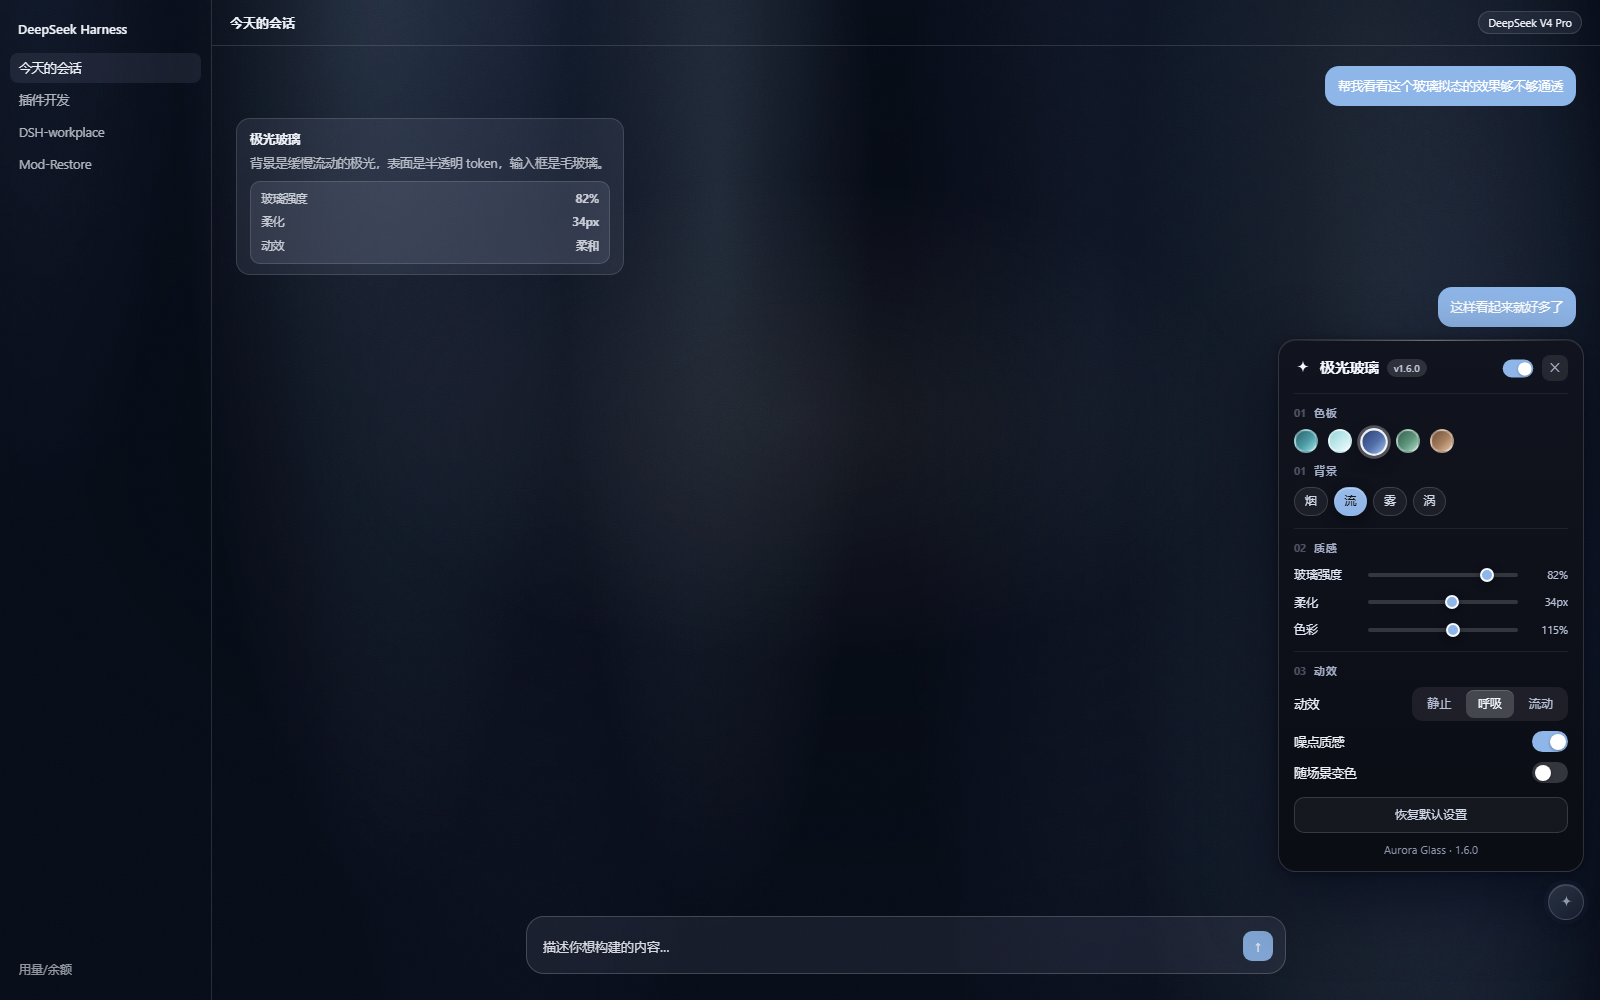
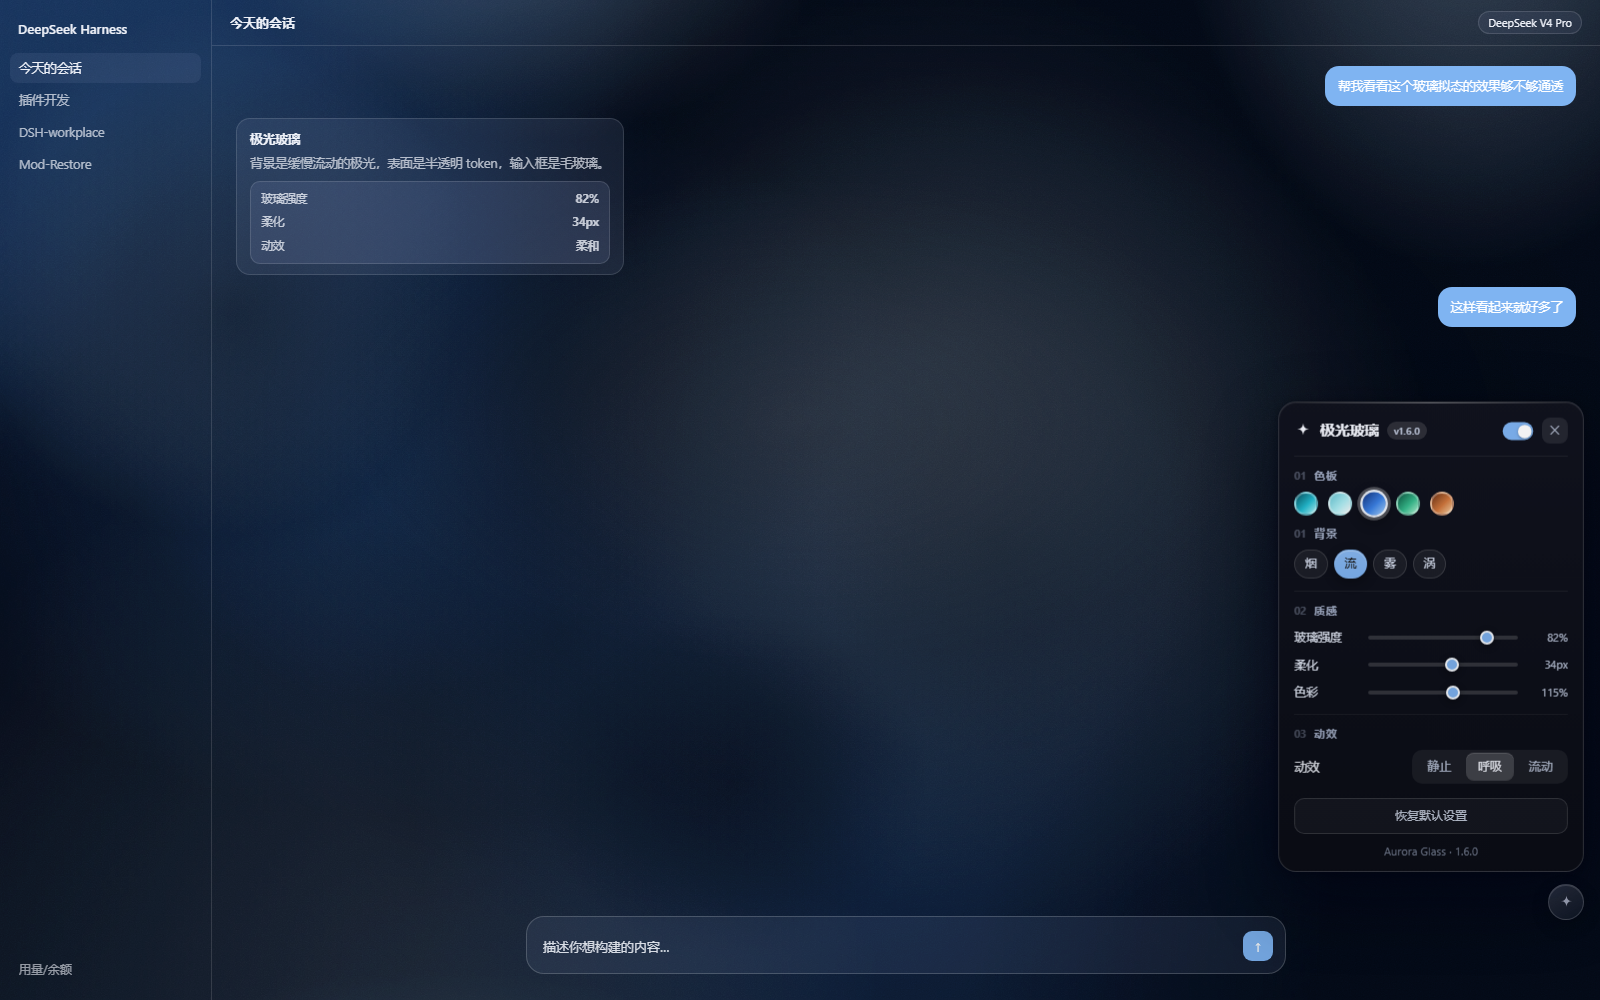
feat: v3.1.0 - fluid cells with dark channels, saturated palettes, drop grain and tint switches

diff --git a/client.js b/client.js
@@ -42,43 +42,43 @@ window.__ModuleLoader__.load({
      * palettes & presets
      * ------------------------------------------------------------------ */
 
-    // Five single-hue palettes, after the reference stills: a deep ground,
-    // a pale ground, and three tones of the same hue in between.
+    // Five single-hue palettes. The tones are deliberately saturated — a
+    // desaturated ramp is what made the first attempt look dirty.
     const PALETTES = [
       {
         id: 'deep',
         label: '深青',
-        base: [[236, 246, 247], [7, 22, 25]],
-        rgb: [[42, 96, 104], [78, 156, 166], [150, 226, 232]],
-        brand: { light: '#1f6d76', dark: '#7fd6de' },
+        base: [[232, 250, 251], [3, 20, 24]],
+        rgb: [[8, 86, 100], [36, 190, 210], [186, 250, 253]],
+        brand: { light: '#0f7f8e', dark: '#4fd8e6' },
       },
       {
         id: 'pale',
         label: '浅青',
-        base: [[233, 247, 248], [10, 28, 32]],
-        rgb: [[150, 214, 219], [198, 236, 239], [244, 252, 253]],
-        brand: { light: '#3fa9b4', dark: '#a8e6ec' },
+        base: [[236, 252, 253], [8, 26, 30]],
+        rgb: [[104, 202, 214], [176, 240, 246], [252, 255, 255]],
+        brand: { light: '#2ba7b6', dark: '#9de9f2' },
       },
       {
         id: 'indigo',
         label: '墨蓝',
-        base: [[236, 241, 248], [10, 16, 30]],
-        rgb: [[44, 62, 110], [82, 110, 170], [160, 196, 236]],
-        brand: { light: '#2b4a86', dark: '#8fb6e8' },
+        base: [[234, 242, 252], [6, 12, 28]],
+        rgb: [[18, 52, 128], [62, 132, 232], [176, 216, 255]],
+        brand: { light: '#1f4fa8', dark: '#7fb4f2' },
       },
       {
         id: 'sage',
         label: '雾绿',
-        base: [[240, 245, 240], [14, 24, 20]],
-        rgb: [[52, 96, 78], [96, 150, 126], [176, 220, 200]],
-        brand: { light: '#35664f', dark: '#9ed3b8' },
+        base: [[238, 250, 242], [8, 24, 18]],
+        rgb: [[14, 92, 68], [56, 190, 142], [182, 248, 214]],
+        brand: { light: '#12795a', dark: '#6fe3b2' },
       },
       {
         id: 'clay',
         label: '砂褐',
-        base: [[246, 242, 235], [24, 18, 15]],
-        rgb: [[112, 78, 56], [168, 128, 96], [226, 198, 170]],
-        brand: { light: '#7a5540', dark: '#dcb894' },
+        base: [[252, 246, 236], [26, 14, 8]],
+        rgb: [[112, 52, 22], [212, 122, 62], [250, 214, 168]],
+        brand: { light: '#9c4f22', dark: '#e8a468' },
       },
     ];
 
@@ -1184,8 +1184,6 @@ body:not([data-ds-dark-theme]) .ag-swatch.on{ border-color:rgba(60,48,36,.7); bo
             el('span', { text: t('ctl.motion') }),
             el('div', { class: 'ag-seg', style: 'width:156px' }, segButtons),
           ]),
-          sw('grain', t('sw.grain')),
-          sw('tint', t('sw.tint')),
         ]),
         el('button', {
           class: 'ag-reset',
@@ -1464,12 +1462,14 @@ body:not([data-ds-dark-theme]) .ag-swatch.on{ border-color:rgba(60,48,36,.7); bo
     }
 
     /* ==================================================================== *
-     * Fluid backdrops, after the reference stills: one hue, deep to pale,
-     * made of nothing but large soft gradients. No lines, no shapes, no
-     * pointer light — the motion is slow enough to be felt, not watched.
+     * Fluid backdrops.
      *
-     * Cost: every blob is a radial gradient fill; there is no ctx.filter in
-     * this file at all, which is what keeps 20+ of them affordable at 30fps.
+     * Built from a few dozen soft gradients that drift on separate Lissajous
+     * paths — but unlike a plain blob pile, half of them are DARK. The dark
+     * ones carve channels through the bright ones, and that interference is
+     * what reads as a fluid rather than a blur.
+     *
+     * Cost: N gradient fills per frame, no ctx.filter anywhere.
      * ==================================================================== */
 
     const moodOf = () => paletteOf(state.palette);
@@ -1482,11 +1482,11 @@ body:not([data-ds-dark-theme]) .ag-swatch.on{ border-color:rgba(60,48,36,.7); bo
       return m;
     }
 
-    // a soft blob: colour at the core, nothing at the rim
     function blob(ctx, x, y, r, c, a, squash) {
+      if (r <= 0.5) return;
       const g = ctx.createRadialGradient(x, y, 0, x, y, r);
       g.addColorStop(0, 'rgba(' + c[0] + ',' + c[1] + ',' + c[2] + ',' + a + ')');
-      g.addColorStop(0.42, 'rgba(' + c[0] + ',' + c[1] + ',' + c[2] + ',' + (a * 0.55) + ')');
+      g.addColorStop(0.45, 'rgba(' + c[0] + ',' + c[1] + ',' + c[2] + ',' + (a * 0.62) + ')');
       g.addColorStop(1, 'rgba(' + c[0] + ',' + c[1] + ',' + c[2] + ',0)');
       ctx.save();
       if (squash && squash !== 1) {
@@ -1501,106 +1501,88 @@ body:not([data-ds-dark-theme]) .ag-swatch.on{ border-color:rgba(60,48,36,.7); bo
       ctx.restore();
     }
 
-    /* ---- smoke: the reference look, twenty slow billows -------------- */
-
-    const SMOKE = (() => {
+    /* a drifting cell: position, radius, phase, speeds, and whether it is
+       a bright body or a dark channel */
+    function makeCells(n, seed0) {
       const list = [];
-      let seed = 20261026;
+      let seed = seed0;
       const rnd = () => {
         seed = (seed * 1103515245 + 12345) & 0x7fffffff;
         return seed / 0x7fffffff;
       };
-      for (let i = 0; i < 22; i += 1) {
+      for (let i = 0; i < n; i += 1) {
+        const darkCell = i % 3 === 0;
         list.push({
           x: rnd(),
           y: rnd(),
-          r: 0.2 + rnd() * 0.34,
+          r: (darkCell ? 0.1 : 0.16) + rnd() * (darkCell ? 0.16 : 0.24),
           ph: rnd() * 6.28,
-          sp: 0.12 + rnd() * 0.2,
-          tone: rnd() < 0.45 ? 2 : rnd() < 0.6 ? 1 : 0,
-          a: 0.1 + rnd() * 0.16,
-          sq: 0.7 + rnd() * 0.7,
+          ax: 0.05 + rnd() * 0.1,
+          ay: 0.04 + rnd() * 0.09,
+          sx: 0.25 + rnd() * 0.35,
+          sy: 0.2 + rnd() * 0.3,
+          tone: i % 3,
+          a: (darkCell ? 0.34 : 0.24) + rnd() * 0.2,
+          sq: 0.6 + rnd() * 0.8,
+          darkCell,
         });
       }
       return list;
-    })();
+    }
+
+    const SMOKE_CELLS = makeCells(26, 424242);
+    const FLOW_CELLS = makeCells(20, 919191);
+    const MIST_CELLS = makeCells(18, 515151);
+    const SWIRL_CELLS = makeCells(24, 737373);
+
+    function paintCells(ctx, W, H, dark, cells, t, o) {
+      const m = moodOf();
+      const bright = m.rgb[2];
+      const mid = m.rgb[1];
+      const deep = m.rgb[0];
+      const ink = dark ? m.base[1] : m.base[0];
+
+      for (let i = 0; i < cells.length; i += 1) {
+        const c = cells[i];
+        let x = (c.x + Math.sin(t * c.sx + c.ph) * c.ax) * W;
+        let y = (c.y + Math.cos(t * c.sy + c.ph * 1.7) * c.ay) * H;
+
+        if (o.spin) {
+          const dx = x - W * 0.5;
+          const dy = y - H * 0.5;
+          const a = o.spin * t * 0.06;
+          x = W * 0.5 + dx * Math.cos(a) - dy * Math.sin(a) * 0.7;
+          y = H * 0.5 + dx * Math.sin(a) * 0.7 + dy * Math.cos(a);
+        }
+        if (o.stretchY) y = H * 0.5 + (y - H * 0.5) * o.stretchY;
+
+        const r = c.r * W * (0.88 + 0.12 * Math.sin(t * 0.7 + c.ph)) * o.scale;
+        const col = c.darkCell ? ink : (c.tone === 2 ? bright : mid);
+        blob(ctx, x, y, r, col, c.a * (dark ? 1 : 0.95), c.sq);
+      }
+
+      // a single hot core keeps the whole thing from looking flat
+      blob(ctx, W * 0.58, H * 0.36, W * 0.22, dark ? bright : deep, dark ? 0.2 : 0.16, 1);
+    }
 
     function drawSmoke(ctx, W, H, dark) {
-      const m = ground(ctx, W, H, dark);
-      const t = silkT * 0.55;
-      const pulse = 1 + silkBurst * 0.18;
-
-      for (let i = 0; i < SMOKE.length; i += 1) {
-        const b = SMOKE[i];
-        const x = (b.x + Math.sin(t * b.sp + b.ph) * 0.16) * W;
-        const y = (b.y + Math.cos(t * b.sp * 0.8 + b.ph * 1.6) * 0.14) * H;
-        const r = b.r * W * (0.9 + 0.1 * Math.sin(t * 0.5 + b.ph)) * pulse;
-        // light ground needs the darker tones, dark ground the lighter ones
-        const tone = dark ? (b.tone === 0 ? 1 : b.tone) : 0;
-        blob(ctx, x, y, r, m.rgb[tone], b.a * (dark ? 1.9 : 3.4), b.sq);
-      }
-
-      // a single pale core, like the brightest part of the reference stills
-      blob(ctx, W * 0.62, H * 0.34, W * 0.32, m.rgb[dark ? 2 : 0], dark ? 0.22 : 0.16, 1);
+      ground(ctx, W, H, dark);
+      paintCells(ctx, W, H, dark, SMOKE_CELLS, silkT * 0.9, { scale: 1, stretchY: 0, spin: 0 });
     }
-
-    /* ---- flow: vertical currents rising through the frame ------------ */
 
     function drawFlow(ctx, W, H, dark) {
-      const m = ground(ctx, W, H, dark);
-      const t = silkT * 0.5;
-      const n = 7;
-      for (let i = 0; i < n; i += 1) {
-        const base = (i + 0.5) / n;
-        const x = (base + Math.sin(t * 0.3 + i * 1.7) * 0.05) * W;
-        const y = ((t * 0.06 + i * 0.13) % 1.4 - 0.2) * H;
-        const r = W * (0.16 + (i % 3) * 0.05);
-        const c = m.rgb[dark ? 1 + (i % 2) : i % 2];
-        ctx.save();
-        ctx.translate(x, y);
-        ctx.scale(0.55, 2.6);
-        ctx.translate(-x, -y);
-        blob(ctx, x, y, r, c, (dark ? 0.24 : 0.2) + (i % 2) * 0.05, 1);
-        ctx.restore();
-      }
+      ground(ctx, W, H, dark);
+      paintCells(ctx, W, H, dark, FLOW_CELLS, silkT * 1.15, { scale: 1.05, stretchY: 1.9, spin: 0 });
     }
-
-    /* ---- mist: horizontal strata, drifting at different speeds ------- */
 
     function drawMist(ctx, W, H, dark) {
-      const m = ground(ctx, W, H, dark);
-      const t = silkT * 0.4;
-      const n = 5;
-      for (let i = 0; i < n; i += 1) {
-        const y = H * (0.16 + i * 0.18);
-        const h = H * (0.2 + (i % 2) * 0.08);
-        const drift = ((t * (0.02 + i * 0.006) + i * 0.3) % 1.6) - 0.3;
-        const c = m.rgb[dark ? 1 + (i % 2) : i % 2];
-        const g = ctx.createLinearGradient(0, y - h * 0.5, 0, y + h * 0.5);
-        g.addColorStop(0, 'rgba(' + c[0] + ',' + c[1] + ',' + c[2] + ',0)');
-        g.addColorStop(0.5, 'rgba(' + c[0] + ',' + c[1] + ',' + c[2] + ',' + (dark ? 0.26 : 0.22) + ')');
-        g.addColorStop(1, 'rgba(' + c[0] + ',' + c[1] + ',' + c[2] + ',0)');
-        ctx.fillStyle = g;
-        ctx.fillRect(-W * 0.3 + drift * W, y - h * 0.5, W * 1.6, h);
-      }
+      ground(ctx, W, H, dark);
+      paintCells(ctx, W, H, dark, MIST_CELLS, silkT * 0.55, { scale: 1.15, stretchY: 0.55, spin: 0 });
     }
 
-    /* ---- swirl: billows orbiting a slow centre ----------------------- */
-
     function drawSwirl(ctx, W, H, dark) {
-      const m = ground(ctx, W, H, dark);
-      const t = silkT * 0.32;
-      const cx = W * 0.52;
-      const cy = H * 0.52;
-      const n = 16;
-      for (let i = 0; i < n; i += 1) {
-        const a = (i / n) * Math.PI * 2 + t * 0.5;
-        const ring = W * (0.1 + (i % 4) * 0.09);
-        const x = cx + Math.cos(a) * ring;
-        const y = cy + Math.sin(a) * ring * 0.7;
-        const r = W * (0.14 + (i % 3) * 0.05);
-        blob(ctx, x, y, r, m.rgb[dark ? 1 + (i % 2) : i % 2], (dark ? 0.2 : 0.17) + (i % 2) * 0.05, 0.9);
-      }
+      ground(ctx, W, H, dark);
+      paintCells(ctx, W, H, dark, SWIRL_CELLS, silkT * 0.75, { scale: 1, stretchY: 0, spin: 1 });
     }
 
     function now0() {

diff --git a/README.md b/README.md
@@ -3,7 +3,7 @@
 > **`dsh-aurora-glass`** — 为 DeepSeek Harness（DSH）打造的全局玻璃拟态 + 极光渐变主题插件。
 > A global glassmorphism + aurora theme plugin for DeepSeek Harness.
 
-![Version](https://img.shields.io/badge/version-3.0.0-8fb0ff) ![License](https://img.shields.io/badge/license-MIT-059669) ![Platform](https://img.shields.io/badge/platform-DeepSeek%20Harness-4763ff) ![Dependencies](https://img.shields.io/badge/dependencies-0-0b7bf1)
+![Version](https://img.shields.io/badge/version-3.1.0-8fb0ff) ![License](https://img.shields.io/badge/license-MIT-059669) ![Platform](https://img.shields.io/badge/platform-DeepSeek%20Harness-4763ff) ![Dependencies](https://img.shields.io/badge/dependencies-0-0b7bf1)
 
 <p align="center">
   <img src="docs/preview-light.png" alt="烟 · 浅青（浅色）" width="780">
@@ -80,14 +80,17 @@
 
 正文颜色也跟着色板走（覆盖 `--dsw-alias-label-*`），强调色跟随每一套的品牌色。
 
-### 背景：四种流体，都不跟随鼠标
+### 背景：四种流体，真的会动
 
-| 背景 | 内容 |
+每一团都是一个软渐变，沿各自的 Lissajous 路径漂移——但**三分之一是暗的**。
+暗团在亮团之间挖出通道，那种干涉才读得出"流体"，而不是一团模糊。
+
+| 背景 | 参数 |
 | --- | --- |
-| **烟** | 二十二团极大的柔光缓慢翻滚、互相晕开，最接近参考的质感 |
-| **流** | 七道竖向流体缓缓上升，像光穿过水面 |
-| **雾** | 五层横向雾带以不同速度漂移，最安静的一种 |
-| **涡** | 十六团柔光绕中心缓慢旋转，像被搅动的水 |
+| **烟** | 26 团，横向漂移，最接近参考的质感 |
+| **流** | 20 团，纵向拉伸 1.9 倍，像上升的水流 |
+| **雾** | 18 团，横向压扁 0.55 倍，最安静 |
+| **涡** | 24 团绕中心缓慢旋转 |
 
 ### 交互：只在控件上
 

diff --git a/CHANGELOG.md b/CHANGELOG.md
@@ -3,6 +3,24 @@
 本文件记录 dsh-aurora-glass 的重要变更，采用简易维护格式（Keep a Changelog 风格）。
 All notable changes to dsh-aurora-glass, in a simple maintenance format (Keep a Changelog style).
 
+## [3.1.0] - 2026-10-26
+
+3.0.0 被判"根本没有流体的感觉、颜色很脏"。
+
+### Fixed
+
+- **流体感**：以前是 22 团同向的亮团，看起来像一层渐变。现在**三分之一改成暗团**，
+  暗团在亮团之间挖出通道，产生真实的干涉结构；每团沿独立的 Lissajous 路径漂移，所以确实在动。
+- **颜色脏**：色板的三阶全部重调，饱和度大幅提高（深青从 `#2A6068` 提到 `#085664`→`#24BED2`），
+  中间调不再发灰。
+- 深色模式用亮色调、浅色模式用深色调，两边都不再糊成一片。
+
+### Removed
+
+- **噪点质感**、**随场景变色** 两个开关（用户判定鸡肋）。
+- 之前尝试过的逐像素噪声场方案：在 20k 像素上做域扭曲，实际跑出来是一片死黑，
+  且 CPU 开销远高于收益，改用渐变团方案。
+
 ## [3.0.0] - 2026-10-26
 
 2.1.0 的瑞士排版被判"越改越难看，不如最早的极光"。方向推翻，回到**流体**——但这次是单色、成片、无指针跟随。
